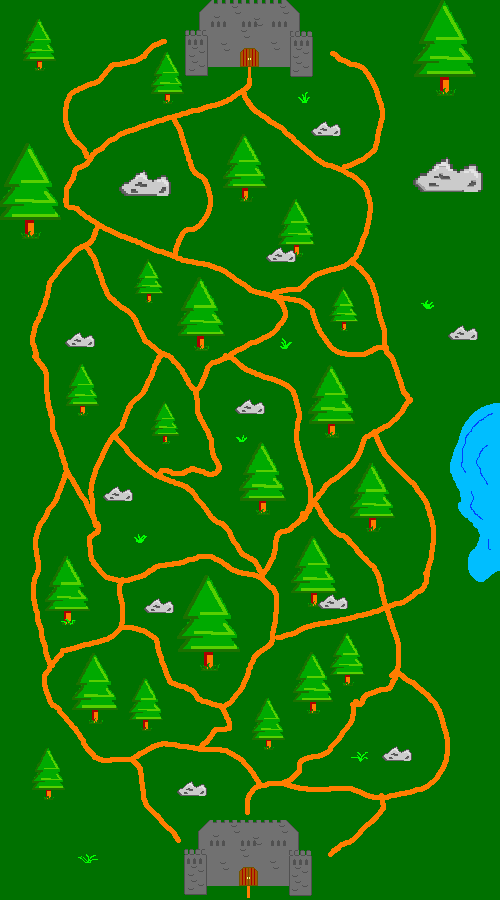
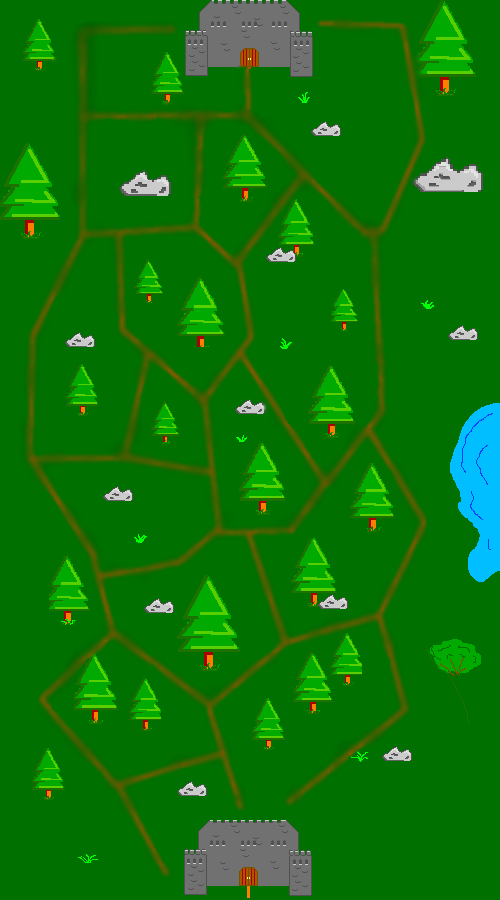
Map Generator

diff --git a/Game.cs b/Game.cs
@@ -1,4 +1,4 @@
-#define GRAPHMAKER
+// #define GRAPHMAKER
 
 using MinionsOfDeath.Behaviors;
 using MinionsOfDeath.Graphics;
@@ -9,6 +9,9 @@ using OpenTK.Input;
 using System.Collections.Generic;
 using System.Drawing;
 using System.Xml.Linq;
+using System.Linq;
+using MinionsOfDeath.Navigation;
+using System;
 
 namespace MinionsOfDeath
 {
@@ -22,6 +25,14 @@ namespace MinionsOfDeath
         public static MouseState PreviousMouseState;
         private GameState _gameState;
         private Sprite _map;
+#if GRAPHMAKER        
+        XDocument doc = new XDocument();
+        WaypointGraph graph = new WaypointGraph("TestWaypoint.xml");
+        int rightClicks = 0;
+        int[] clicks = new int[4];
+        int minID = 5;
+#endif
+        
 
         private Player _player1;
         private Player _player2;
@@ -42,12 +53,14 @@ namespace MinionsOfDeath
 
             _gameState = GameState.Running;
             InitRunningState();
-            _map = new Sprite(new List<string>() { "Images/testMap.png" });
-            //_map.Width *= 2;
-            //_map.Height *= 2;
+            _map = new Sprite(new List<string>() { "Images/Map1.png" });
+            _map.Width *= 2;
+            _map.Height *= 2;
 
             //_scrollBar = new ScrollBar(0, 400, 2000, 40, 0, 2000, true, new Sprite(new List<string>() { "Images/redMinion0.png" }));//horizontal
             _scrollBar = new ScrollBar(0, 0, 40, 1800, 0, 1800, false, new Sprite(new List<string>() { "Images/redMinion0.png" }));//vertical
+
+            doc.Add(new XElement("Waypoints"));
         }
 
         public static int WindowHeight { get; private set; }
@@ -56,6 +69,8 @@ namespace MinionsOfDeath
 
         public void InitRunningState()
         {
+
+
             _player1 = new Player(1);
             Minion minion1 = new Minion(new List<Sprite>() { new Sprite(new List<string>() { "Images/BlueMinion.png" }), new Sprite(new List<string>() { "Images/BlueMinion0.png", "Images/BlueMinion1.png" }) }, 0);
             minion1.State = 1;
@@ -73,6 +88,7 @@ namespace MinionsOfDeath
             minion2.Pos.X = 900;
             minion2.Pos.Y = 100;
             minion2.DecisionTree = new DecisionTree(minion2, new SeekAction(minion2, minion1));
+
         }
 
         private void Game_RenderFrame(object sender, FrameEventArgs e)
@@ -132,12 +148,48 @@ namespace MinionsOfDeath
             PreviousMousePosition = MousePosition;
 
 #if GRAPHMAKER
-            XDocument doc = new XDocument();
-            doc.Add(new XElement("Waypoints"));
-            if (MouseState.LeftButton == ButtonState.Pressed && PreviousMouseState.LeftButton == ButtonState.Released) { 
-                 doc.Element("Waypoints").Add(new XElement("Waypoint", new XAttribute("X", MousePosition.X), new XAttribute("Y", MousePosition.Y), new XElement("Subwaypoint")));
+
+            int x = Camera.X + MousePosition.X;
+            int y = Camera.Y + MousePosition.Y;
+
+            if (MouseState.LeftButton == ButtonState.Pressed && PreviousMouseState.LeftButton == ButtonState.Released && MousePosition.X > 40) {
+               doc.Element("Waypoints").Add(new XElement("Waypoint", new XAttribute("X", x), new XAttribute("Y", y)));
+               minID++;
+               Minion markerMinion = new Minion(new List<Sprite>() { new Sprite(new List<string>() { "Images/BlueMinion.png" }), new Sprite(new List<string>() { "Images/BlueMinion0.png", "Images/BlueMinion1.png" }) }, minID);
+                markerMinion.Pos.X = x;
+                markerMinion.Pos.Y = y;
+                _player1.AddMinion(markerMinion);
+              // doc.Save("TestWaypoint.xml");
             }
-            doc.Save("TestWaypoint.xml");
+            
+            if (MouseState.RightButton == ButtonState.Pressed && PreviousMouseState.RightButton == ButtonState.Released && MousePosition.X > 40)
+            {
+                switch (rightClicks)
+                {
+                    case 0: clicks[0] = x;
+                        clicks[1] = y;
+                        break;
+                    case 1:
+                        clicks[2] = x;
+                        clicks[3] = y;
+                         minID++;
+                         Minion markerMinion = new Minion(new List<Sprite>() { new Sprite(new List<string>() { "Images/square.png" }), new Sprite(new List<string>() { "Images/square.png", "Images/square.png" }) }, minID);
+                         WaypointNode waypoint1 = graph.GetClosestWaypoint(clicks[0], clicks[1]);
+                         WaypointNode waypoint2 = graph.GetClosestWaypoint(clicks[2], clicks[3]);
+                         markerMinion.Pos.X = waypoint1.X + (waypoint2.X - waypoint1.X) / 2;
+                         markerMinion.Pos.Y = waypoint1.Y + (waypoint2.Y - waypoint1.Y) / 2;
+                _player1.AddMinion(markerMinion);
+                graph.ConnectNodes(waypoint1, waypoint2);
+                        Console.Write("Added neighbor");
+                        break;
+                }
+                rightClicks++;
+                rightClicks = rightClicks % 2;
+                graph.WriteGraph("TestWaypointNeighbors.xml");
+
+            }
+
+            _scrollBar.Update(e.Time);
 #else
 
             switch (_gameState)

diff --git a/Navigation/WaypointGraph.cs b/Navigation/WaypointGraph.cs
@@ -13,18 +13,18 @@ namespace MinionsOfDeath.Navigation
         public WaypointGraph(string filename)
         {
             nodes = new Dictionary<Tuple<int, int>, WaypointNode>();
-            XDocument xdoc = XDocument.Load("Resources/WaypointTestGraph.xml");
+            XDocument xdoc = XDocument.Load("TestWaypoint.xml");
 
             //add all the waypoints to the graph
-            foreach (var item in xdoc.Elements("Waypoint"))
+            foreach (var item in xdoc.Element("Waypoints").Elements("Waypoint"))
             {
                 int x = int.Parse(item.Attribute("X").Value);
                 int y = int.Parse(item.Attribute("Y").Value);
-                nodes.Add(new Tuple<int, int>(x, y), new WaypointNode(this, x, y, new List<WaypointNode>()));
+                nodes[new Tuple<int, int>(x, y)] = new WaypointNode(this, x, y, new List<WaypointNode>());
             }
 
             //find the neigbhors for every waypoint
-            foreach (var item in xdoc.Elements("Waypoint"))
+            foreach (var item in xdoc.Element("Waypoints").Elements("Waypoint"))
             {
                 int x = int.Parse(item.Attribute("X").Value);
                 int y = int.Parse(item.Attribute("Y").Value);
@@ -39,6 +39,17 @@ namespace MinionsOfDeath.Navigation
             }
         }
 
+        public void WriteGraph(String filename)
+        {
+            XDocument doc = new XDocument();
+            doc.Add(new XElement("Waypoints"));
+            foreach (KeyValuePair<Tuple<int, int>, WaypointNode> item in nodes)
+            {
+                doc.Element("Waypoints").Add(new XElement("Waypoint", new XAttribute("X", item.Key.Item1), new XAttribute("Y", item.Key.Item2), item.Value.Neighbors.Select(e => new XElement("Neighbor", new XAttribute("X", e.X), new XAttribute("Y", e.Y)))));
+            }
+            doc.Save(filename);
+        }
+
         private void AddNode(int x, int y)
         {
             //TODO: give node its neighbors
@@ -47,7 +58,7 @@ namespace MinionsOfDeath.Navigation
             nodes.Add(Tuple.Create(x, y), n);
         }
 
-        private void ConnectNodes(WaypointNode aNode, WaypointNode bNode)
+        public void ConnectNodes(WaypointNode aNode, WaypointNode bNode)
         {
             aNode.Neighbors.Add(bNode);
             bNode.Neighbors.Add(aNode);
@@ -59,7 +70,7 @@ namespace MinionsOfDeath.Navigation
             foreach (KeyValuePair<Tuple<int, int>, WaypointNode> item in nodes)
             {
                 WaypointNode tempNode = item.Value;
-                if (getDistance(x, y, tempNode.X, tempNode.Y) < getDistance(x, y, closest.X, closest.Y))
+                if (getDistance(x, tempNode.X, y, tempNode.Y) < getDistance(x, closest.X, y, closest.Y))
                 {
                     closest = tempNode;
                 }

diff --git a/Interface/ScrollBar.cs b/Interface/ScrollBar.cs
@@ -55,8 +55,8 @@ namespace MinionsOfDeath.Interface
         public override void Update(double timeSinceFrame)
         {
 			if (Game.MouseState.LeftButton == OpenTK.Input.ButtonState.Pressed && Game.PreviousMouseState.LeftButton == OpenTK.Input.ButtonState.Pressed &&
-			    Game.PreviousMousePosition.X > _scrollBar.X - Camera.X && Game.PreviousMousePosition.X < _scrollBar.X + _scrollBar.Width - Camera.Y &&
-			    Game.PreviousMousePosition.Y > _scrollBar.Y - Camera.X && Game.PreviousMousePosition.Y < _scrollBar.Y + _scrollBar.Height - Camera.Y)
+			    Game.PreviousMousePosition.X > _scrollBar.X - Camera.X && Game.PreviousMousePosition.X < _scrollBar.X + _scrollBar.Width - Camera.X &&
+			    Game.PreviousMousePosition.Y > _scrollBar.Y - Camera.Y && Game.PreviousMousePosition.Y < _scrollBar.Y + _scrollBar.Height - Camera.Y)
 			{
 				_scrolling = true;
 			} else if (Game.MouseState.LeftButton == OpenTK.Input.ButtonState.Released)
